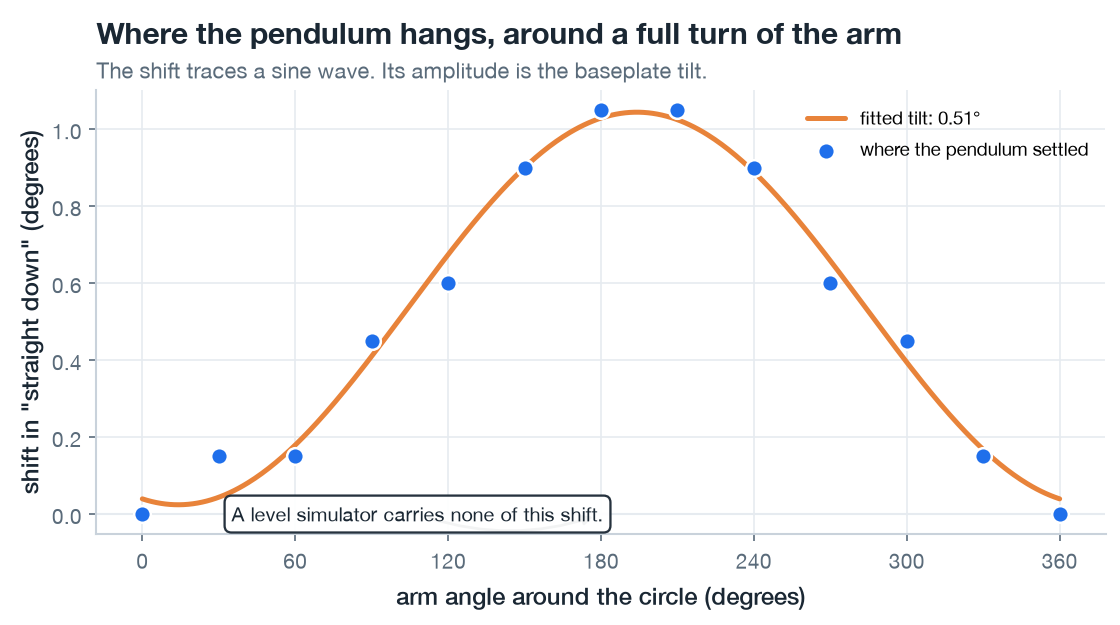
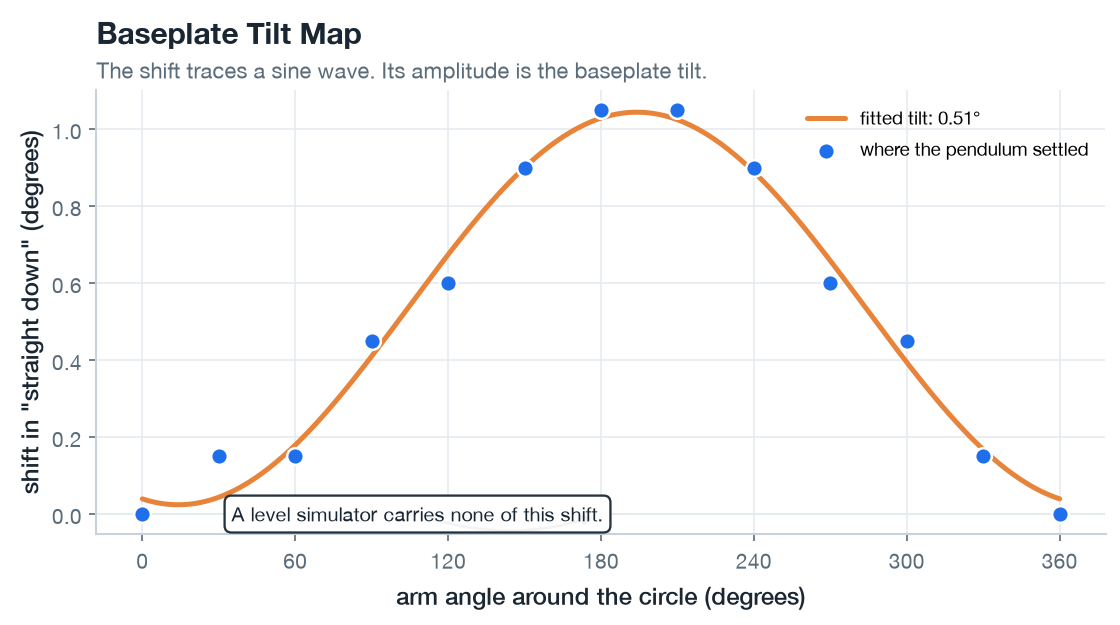
docs: give the experiment 03 figures plain titles

Changed region(s): [[0.0625, 0.0304, 0.8125, 0.0912]]

diff --git a/docs/experiments/03-hardware-bringup/figures/analyze_freeswing.py b/docs/experiments/03-hardware-bringup/figures/analyze_freeswing.py
@@ -147,7 +147,7 @@ def draw_model_vs_reality(result, trace, path: Path) -> None:
     axes.set_ylabel("pendulum angle from hanging (deg)")
     _style.titled(
         axes,
-        "Measured decay against the model's envelope",
+        "Free-Swing Decay vs Model",
         "One release. A viscous-only pivot never comes to rest.",
     )
     axes.legend(fontsize=9.5, loc="upper right", framealpha=0.95)
@@ -224,7 +224,7 @@ def draw_friction(results, path: Path) -> None:
     axes.set_ylabel("swing lost over the next half cycle (deg)")
     _style.titled(
         axes,
-        "Swing lost per half cycle, against swing size",
+        "Swing Lost vs Swing Size",
         "The slope is drag. The lift off zero is a fixed dry-friction bite.",
     )
     axes.legend(fontsize=9.5, loc="lower right")
@@ -288,7 +288,7 @@ def draw_period_comparison(result, path: Path) -> None:
     axes.set_xlabel("predicted period, percent off the measured one")
     _style.titled(
         axes,
-        "Predicted period for each candidate rod length",
+        "Period Error by Rod Length",
         f"Against the bench's {measured:.3f} s. Both clear the gate, the measured one "
         "by more.",
     )
@@ -348,7 +348,7 @@ def draw_amplitude_dependence(results, path: Path) -> None:
     axes.set_ylabel("swing speed (Hz)")
     _style.titled(
         axes,
-        "Swing speed against swing amplitude",
+        "Swing Speed vs Amplitude",
         "A big swing is slower, so the quoted frequency comes from a narrow band.",
     )
     axes.legend(fontsize=8)

diff --git a/docs/experiments/03-hardware-bringup/figures/plot_sweep.py b/docs/experiments/03-hardware-bringup/figures/plot_sweep.py
@@ -103,7 +103,7 @@ def main() -> int:
     ax.set_ylabel('shift in "straight down" (degrees)')
     _style.titled(
         ax,
-        "Where the pendulum hangs, around a full turn of the arm",
+        "Baseplate Tilt Map",
         "The shift traces a sine wave. Its amplitude is the baseplate tilt.",
     )
     ax.set_xticks(range(0, 361, 60))

diff --git a/docs/experiments/03-hardware-bringup/figures/plot_pump.py b/docs/experiments/03-hardware-bringup/figures/plot_pump.py
@@ -134,7 +134,7 @@ def main() -> int:
     ax.set_ylabel("Q, how slowly energy is lost")
     _style.titled(
         ax,
-        "Effective Q at each swing size",
+        "Effective Q vs Swing Size",
         "Past 60 degrees the unit falls below the model, where swing-up works.",
     )
     ax.set_ylim(0, max(38.0, max(model_y) * 1.45))

diff --git a/docs/experiments/03-hardware-bringup/figures/plot_trace.py b/docs/experiments/03-hardware-bringup/figures/plot_trace.py
@@ -106,7 +106,7 @@ def main() -> int:
     ax.set_yticks([0, 45, 90, 135, 180])
     _style.titled(
         ax,
-        "Swing up from hanging, then hold at the top",
+        "Stock Swing-Up and Hold Trace",
         "The reference episode the simulation has to reproduce.",
     )
     ax.legend(loc="lower right", fontsize=9)
